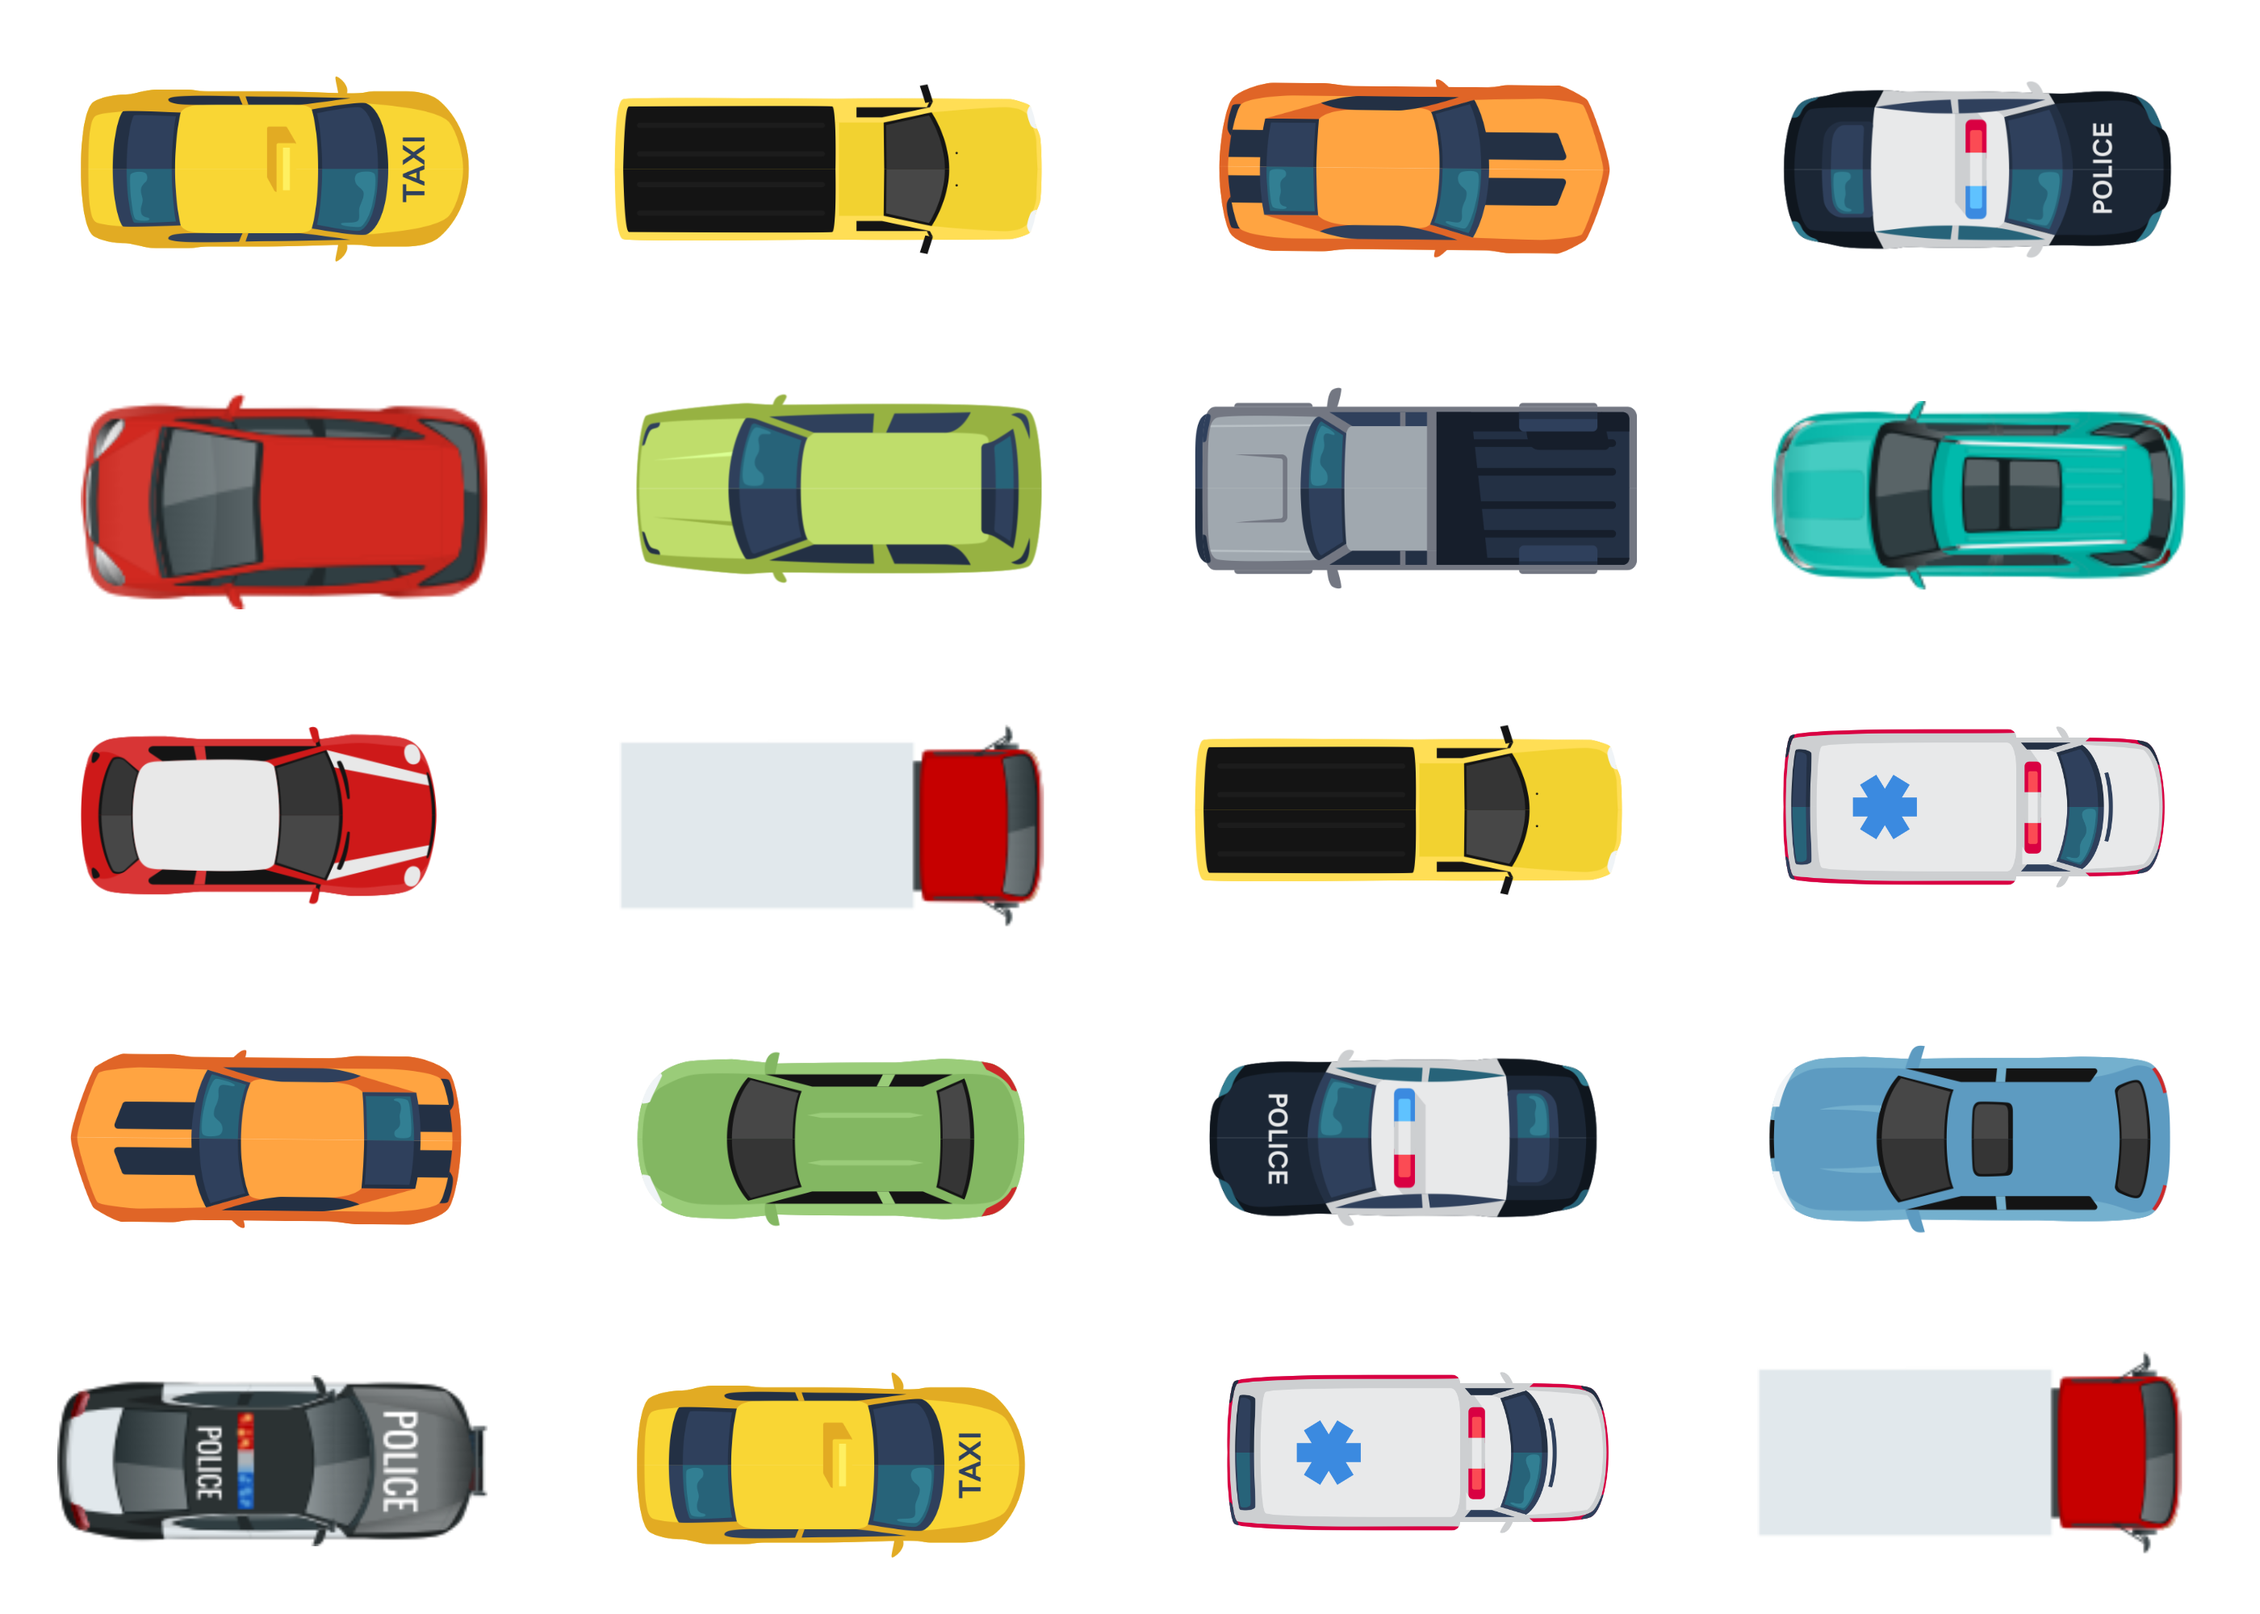
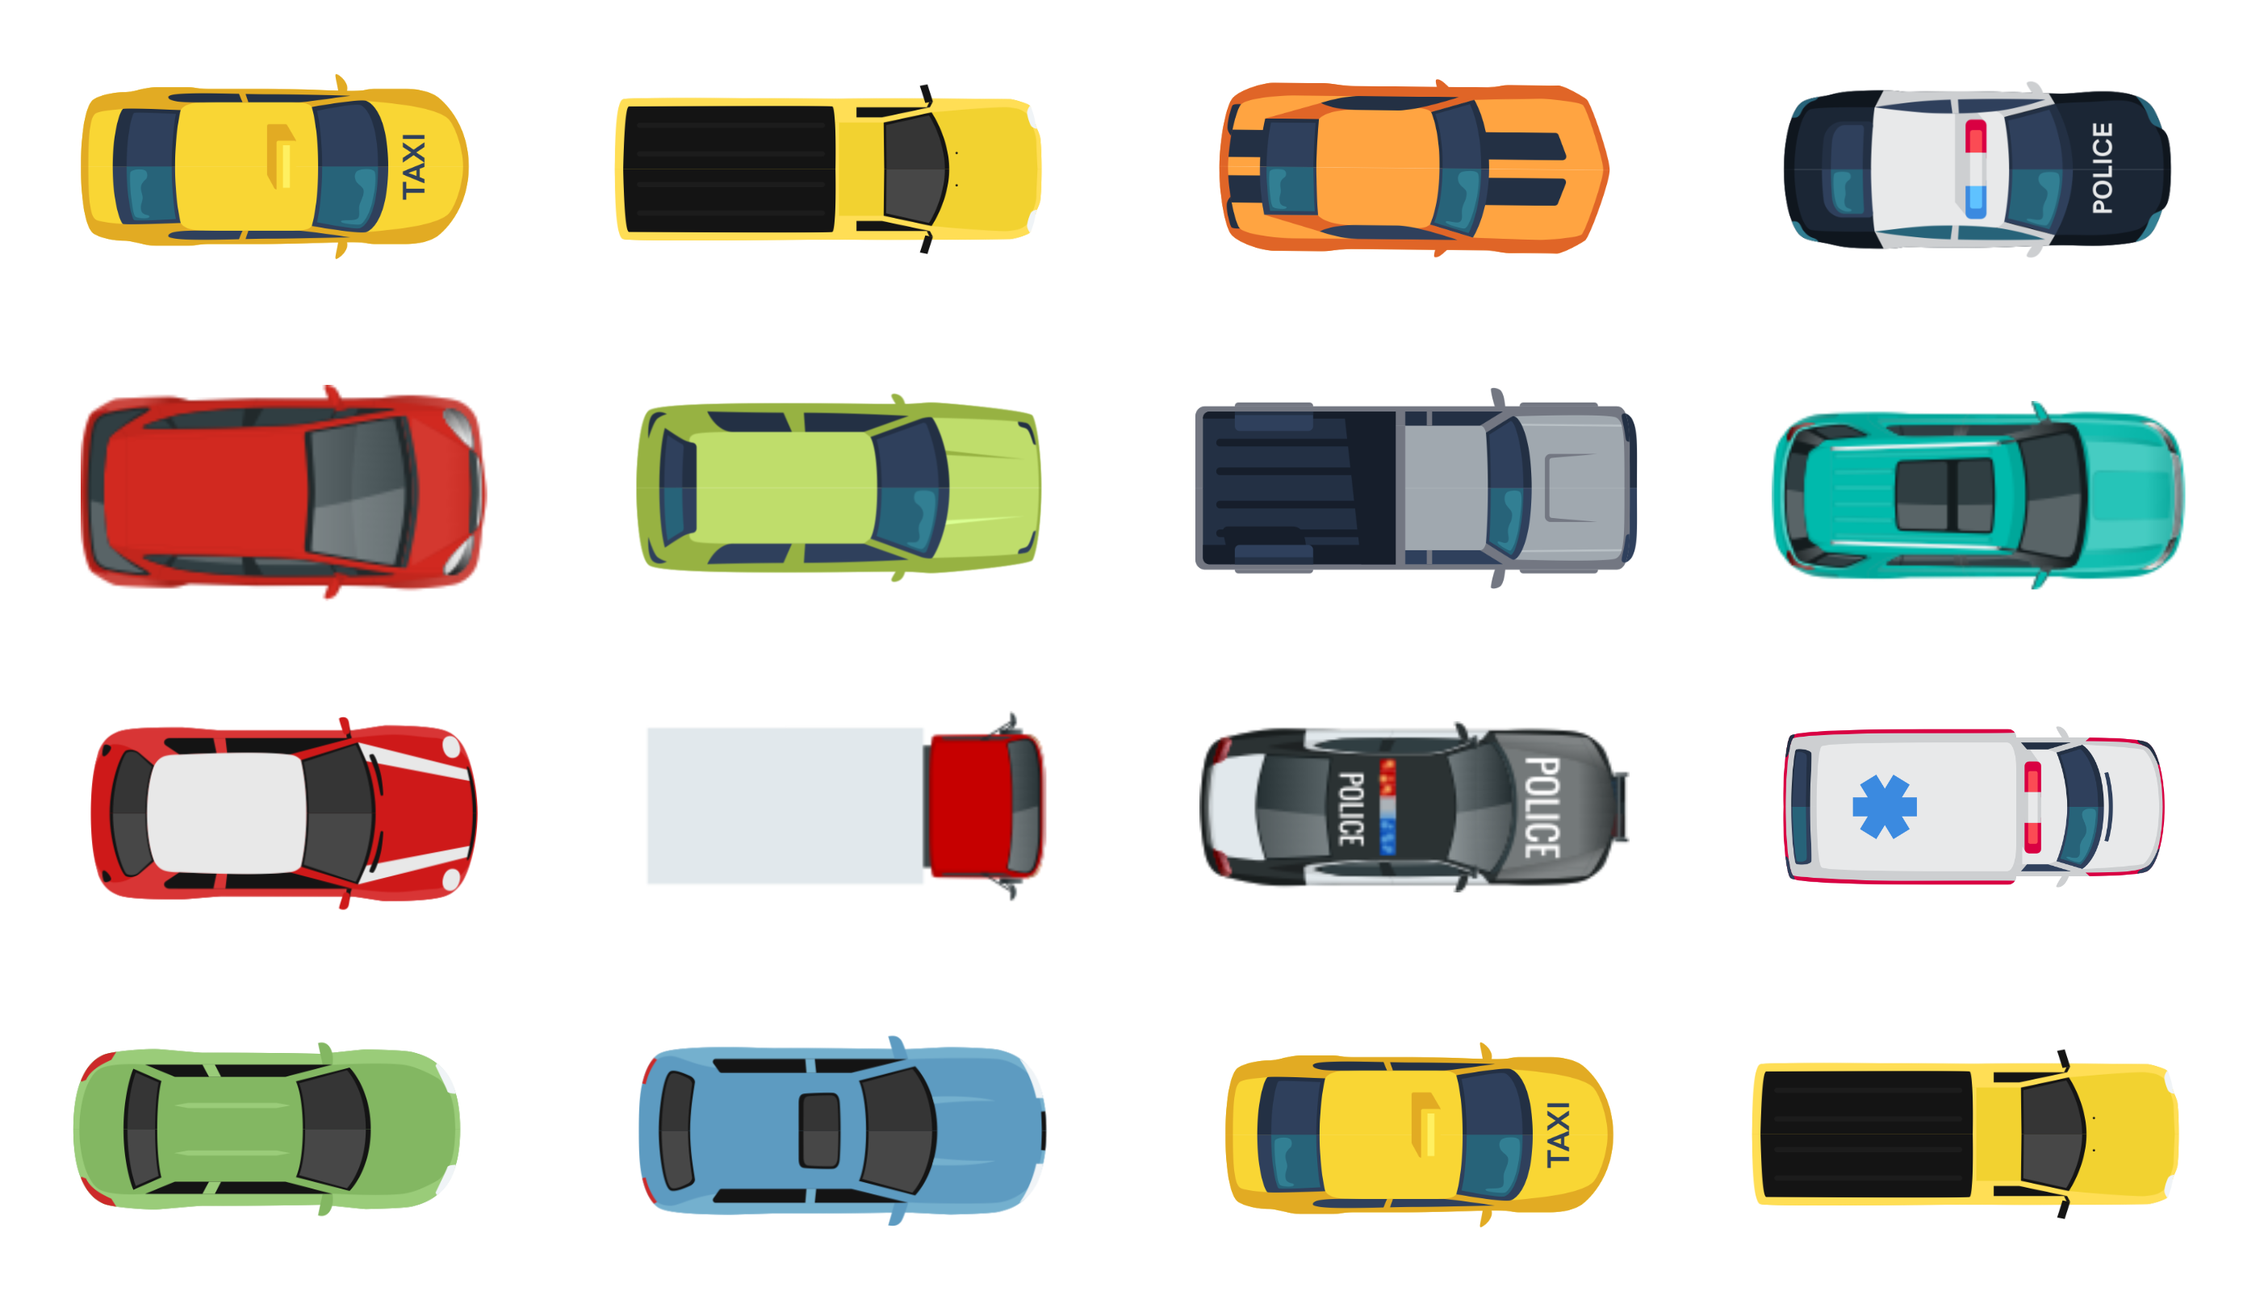
changed elements' rotation to use canvas' rotation function instead of using seperate images

diff --git a/public/scripts/classes/froggy.js b/public/scripts/classes/froggy.js
@@ -1,6 +1,6 @@
 class Froggy extends Sprite {
   constructor(game) {
-    super(game, 'froggy-up.png', 50, 50, 504, 466);
+    super(game, 'froggy.png', 50, 50, 504, 466);
     this.posX = (this.canvas.width - this.width) / 2;
     this.posY = this.canvas.height - this.height;
     this.collided = false;
@@ -9,16 +9,15 @@ class Froggy extends Sprite {
   move(direction) {
     switch (direction) {
       case 'ArrowUp':
-        this.img.src = './public/images/froggy-up.png';
         if (this.posY > 0) this.posY -= this.game.settings.gridSize;
+        this.rotation = 0;
         break;
       case 'ArrowDown':
-        this.img.src = './public/images/froggy-down.png';
         if (this.posY + this.height < this.canvas.height)
           this.posY += this.game.settings.gridSize;
+        this.rotation = 180;
         break;
       case 'ArrowRight':
-        this.img.src = './public/images/froggy-right.png';
         if (this.posX + this.width < this.canvas.width)
           this.posX += this.game.settings.gridSize;
         else {
@@ -28,9 +27,9 @@ class Froggy extends Sprite {
             else this.posX = 0 - this.game.settings.gridSize * 2;
           }
         }
+        this.rotation = 90;
         break;
       case 'ArrowLeft':
-        this.img.src = './public/images/froggy-left.png';
         if (this.posX > 0) this.posX -= this.game.settings.gridSize;
         else {
           if (this.game.settings.horizontalWrap) {
@@ -38,17 +37,21 @@ class Froggy extends Sprite {
             else this.posX = this.canvas.width + this.game.settings.gridSize;
           }
         }
+        this.rotation = -90;
         break;
       default:
-        this.img.src = './public/images/froggy-up.png';
+        this.rotation = 0;
         return;
     }
     this.game.sounds.froggyJump.play();
     this.game.levels[this.game.levelIndex].checkIfOverLeaf();
   }
 
+  render() {
+    super.render(this.angle);
+  }
+
   reset() {
-    this.img.src = './public/images/froggy-up.png';
     this.posX = (this.canvas.width - this.width) / 2;
     this.posY = this.canvas.height - this.height;
   }

diff --git a/index.html b/index.html
@@ -22,16 +22,13 @@
           <div class="game__container--header--right-score"></div>
         </div>
       </div>
-      <div class="game__container-body" id="game-canvas-container">
-        <!-- <canvas class="game__container--body-canvas" id="game-canvas"></canvas> -->
-      </div>
+      <div class="game__container-body" id="game-canvas-container"></div>
     </div>
     <script src="./public/scripts/functions/shared/common.js"></script>
     <script src="./public/scripts/functions/ui/background.js"></script>
     <script src="./public/scripts/functions/ui/screens.js"></script>
     <script src="./public/scripts/functions/ui/items.js"></script>
     <script src="./public/scripts/functions/ui/msgBox.js"></script>
-    <script src="./public/scripts/classes/sound.js"></script>
     <script src="./public/scripts/classes/sprite.js"></script>
     <script src="./public/scripts/classes/froggy.js"></script>
     <script src="./public/scripts/classes/leaf.js"></script>

diff --git a/public/scripts/classes/sprite.js b/public/scripts/classes/sprite.js
@@ -15,6 +15,7 @@ class Sprite {
     this.clipW = clipW || 700;
     this.clipH = clipH || 400;
     this.visible = true;
+    this.rotation = 0;
     this.create();
   }
 
@@ -25,6 +26,16 @@ class Sprite {
 
   render() {
     if (this.img !== null && this.visible) {
+      this.ctx.save();
+      this.ctx.translate(
+        this.posX + this.width / 2,
+        this.posY + this.height / 2
+      );
+      this.ctx.rotate(this.rotation * (Math.PI / 180));
+      this.ctx.translate(
+        -(this.posX + this.width / 2),
+        -(this.posY + this.height / 2)
+      );
       this.ctx.drawImage(
         this.img,
         this.clipX,
@@ -36,6 +47,7 @@ class Sprite {
         this.width,
         this.height
       );
+      this.ctx.restore();
     }
   }
 

diff --git a/public/scripts/classes/lane.js b/public/scripts/classes/lane.js
@@ -7,7 +7,7 @@ class Lane {
     this.cars = [];
   }
 
-  addLaneCars(clipY, laneIndex) {
+  addLaneCars(laneIndex) {
     let totalLength = 0;
 
     for (let i = 0; i < this.maxItems; i++) {
@@ -17,9 +17,10 @@ class Lane {
       car.posX = totalLength;
       car.posY =
         this.game.canvas.height - this.game.settings.gridSize * laneIndex - 100;
-      car.clipX = (700 * i) % 2800;
-      car.clipY = clipY;
+      car.clipX = getRandomInt(0, 3) * 700;
+      car.clipY = getRandomInt(0, 3) * 400;
       car.speed = this.direction === 'right' ? this.speed : this.speed * -1;
+      if (this.direction === 'left') car.rotation = 180;
       this.cars.push(car);
 
       totalLength += car.width + gap;

diff --git a/public/scripts/classes/level.js b/public/scripts/classes/level.js
@@ -72,20 +72,9 @@ class Level {
   }
 
   setLanesCars() {
-    for (let i = 0, index = 0; i < this.lanes.length; i++) {
+    for (let i = 0; i < this.lanes.length; i++) {
       let posY = i * 2 + 1;
-      let clipY;
-      if (this.lanes[i].direction === 'right') {
-        index %= 3;
-        let arr = [0, 800, 1600];
-        clipY = arr[index];
-      } else {
-        index %= 2;
-        let arr = [400, 1200];
-        clipY = arr[index];
-      }
-      index++;
-      this.lanes[i].addLaneCars(clipY, posY);
+      this.lanes[i].addLaneCars(posY);
     }
   }
 

diff --git a/public/scripts/classes/game.js b/public/scripts/classes/game.js
@@ -33,7 +33,7 @@ class Game {
     this.timer = 0;
     this.timerID = null;
     this.sounds = {
-      froggyJump: new Audio('./public/sounds/froggy-jump-2.wav'),
+      froggyJump: new Audio('./public/sounds/froggy-jump-1.wav'),
       froggyCrash: new Audio('./public/sounds/froggy-crash-2.wav'),
       froggyPick: new Audio('./public/sounds/froggy-pick.wav'),
       levelComplete: new Audio('./public/sounds/level-complete.wav'),

diff --git a/public/scripts/functions/ui/background.js b/public/scripts/functions/ui/background.js
@@ -110,7 +110,7 @@ const livesDisplay = (nroOfLives) => {
 
   for (let i = 0; i < nroOfLives; i++) {
     const img = document.createElement('img');
-    img.src = './public/images/froggy-up.png';
+    img.src = './public/images/froggy.png';
     img.alt = 'froggy-live';
     livesDisplayDiv.append(img);
   }
